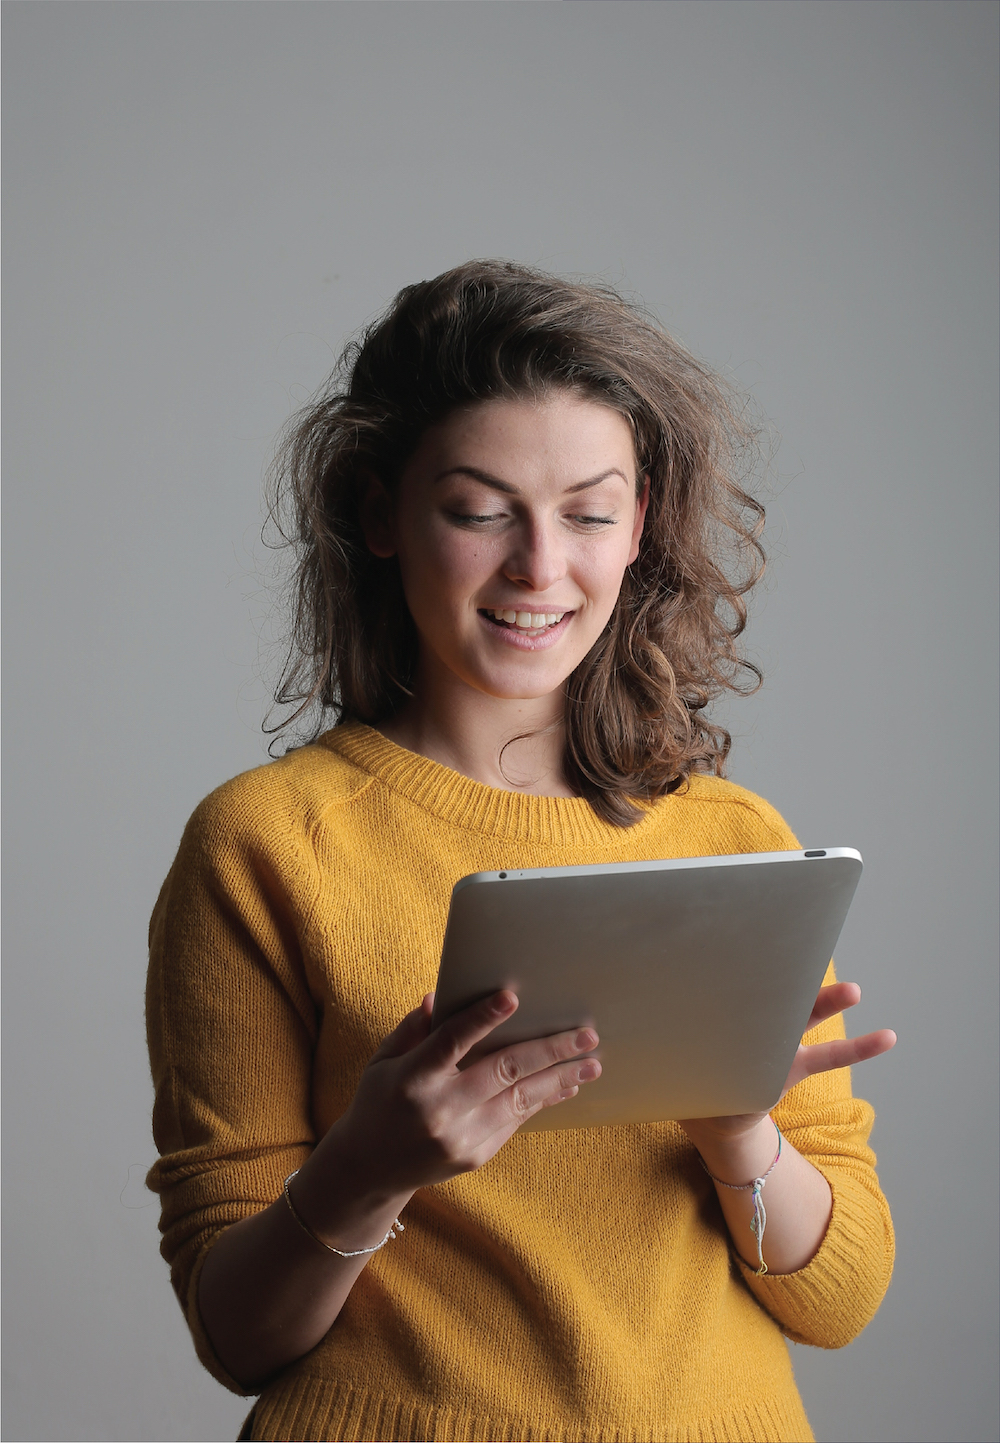
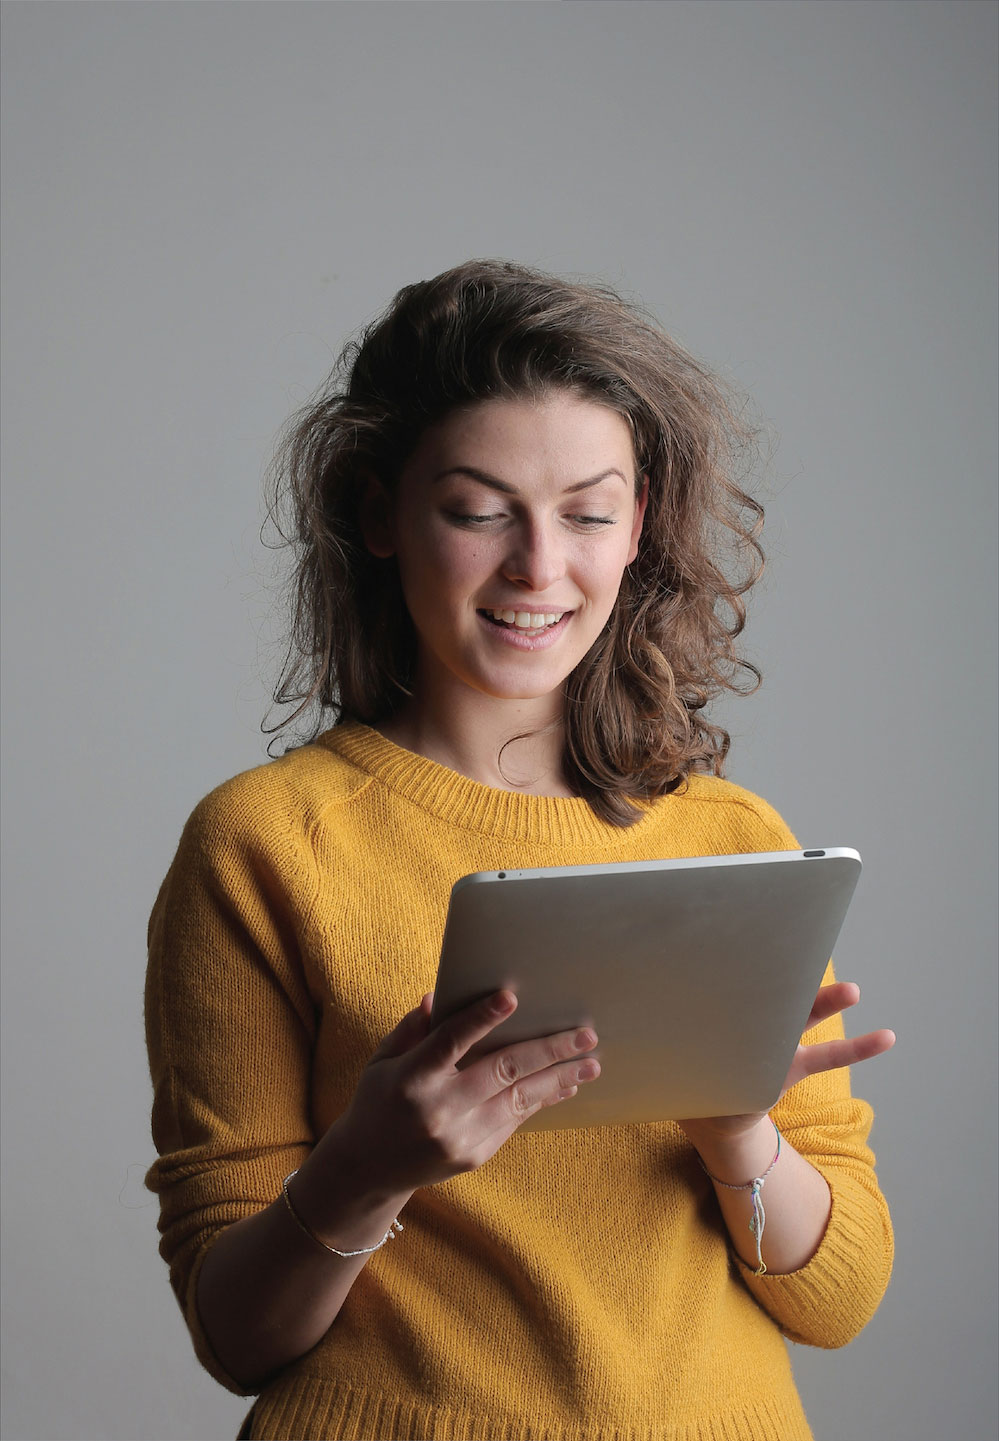
test for ipad on live

diff --git a/src/pages/index.scss b/src/pages/index.scss
@@ -1,3 +1,9 @@
+html {
+  height:100%;
+  width:100%;
+  // overflow: auto;
+}
+
 body::-webkit-scrollbar {
   display: none;
 }
@@ -481,8 +487,8 @@ h5 {
   }
   .line-bottom {
     border: solid 1px #100540;
-    width: calc(483px + (1204 - 483) * ((100vw - 768px) / (1920 - 768)));
-    left: 37.2vw;
+    width: calc(483px + (1210 - 487) * ((100vw - 768px) / (1920 - 768)));
+    left: 37vw;
     position: absolute;
   }
   .form-input label,
@@ -555,7 +561,7 @@ h5 {
   }
   .line-bottom {
     border: solid 2px #100540;
-    left: 37.25vw;
+    left: 37.2vw;
   }
   .section-3 .line {
     border: 2px solid #100540;

diff --git a/src/pages/index.js b/src/pages/index.js
@@ -42,7 +42,7 @@ class Index extends React.Component {
               <div className="image-2-wrapper">
                 <img
                   className="section-2-image"
-                  src={"./images/section-2-image.png"}
+                  src={"./images/section-2-image.jpg"}
                   alt="suit with a brain"
                 />
               </div>
